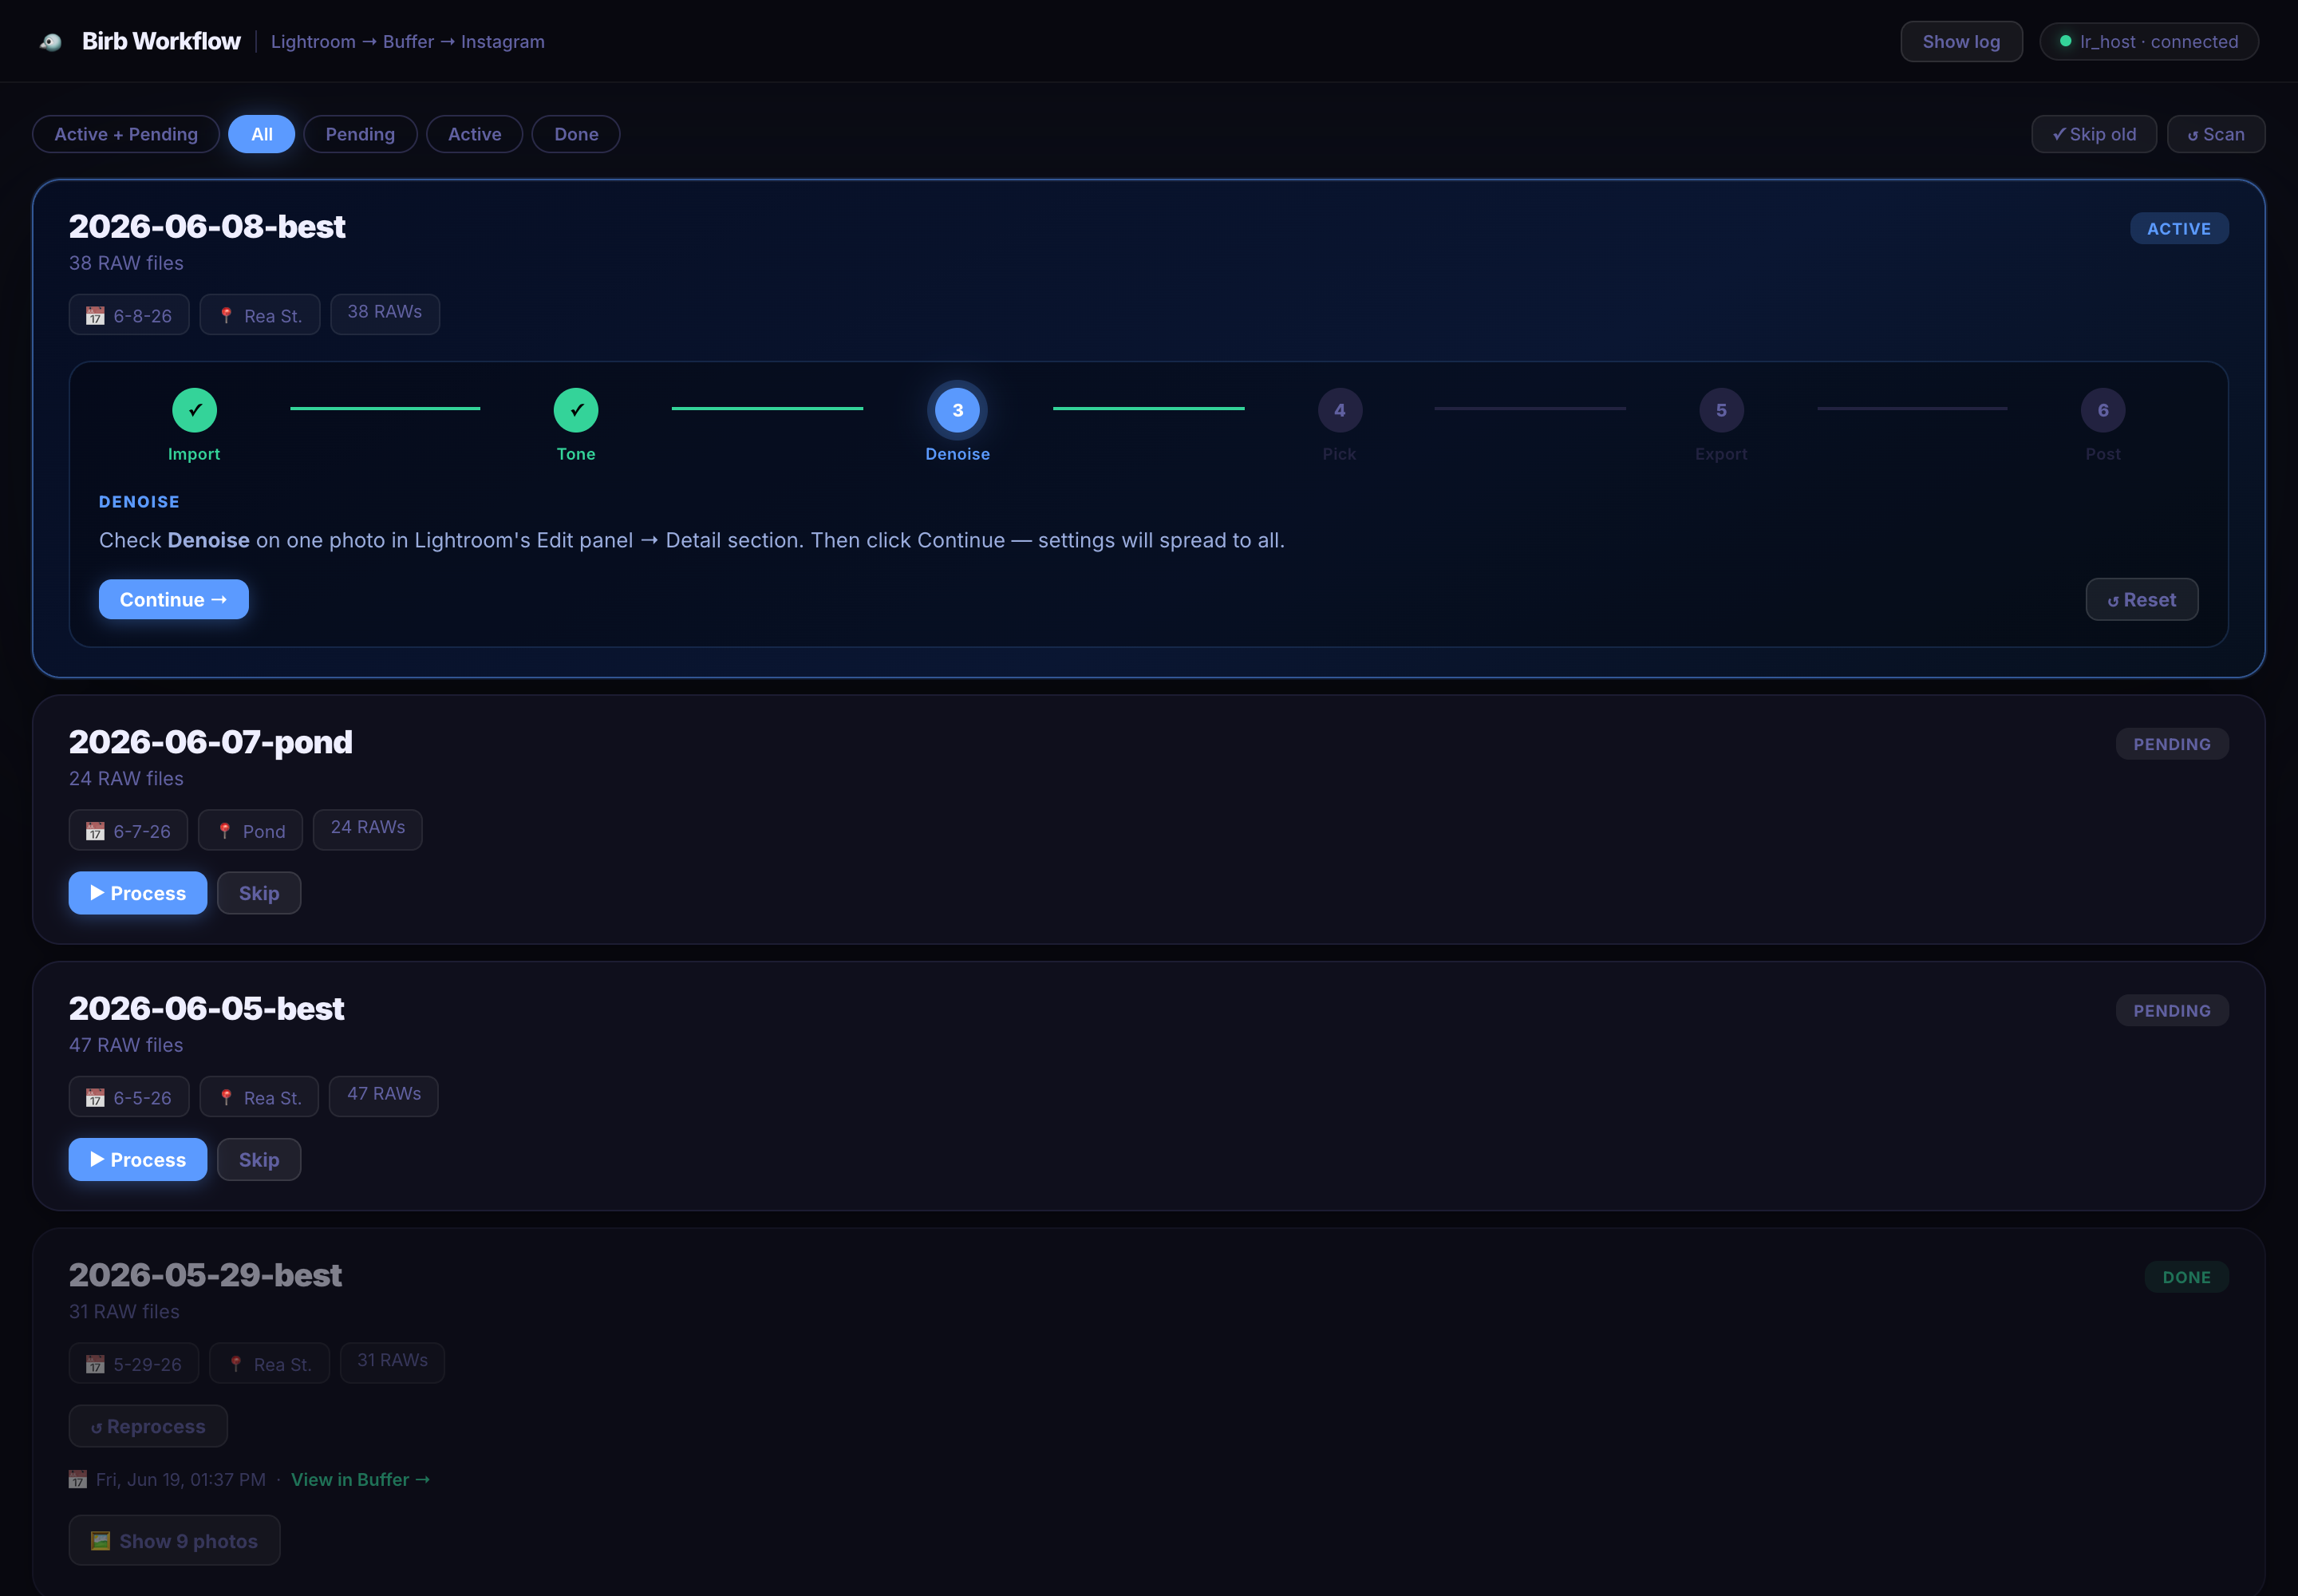
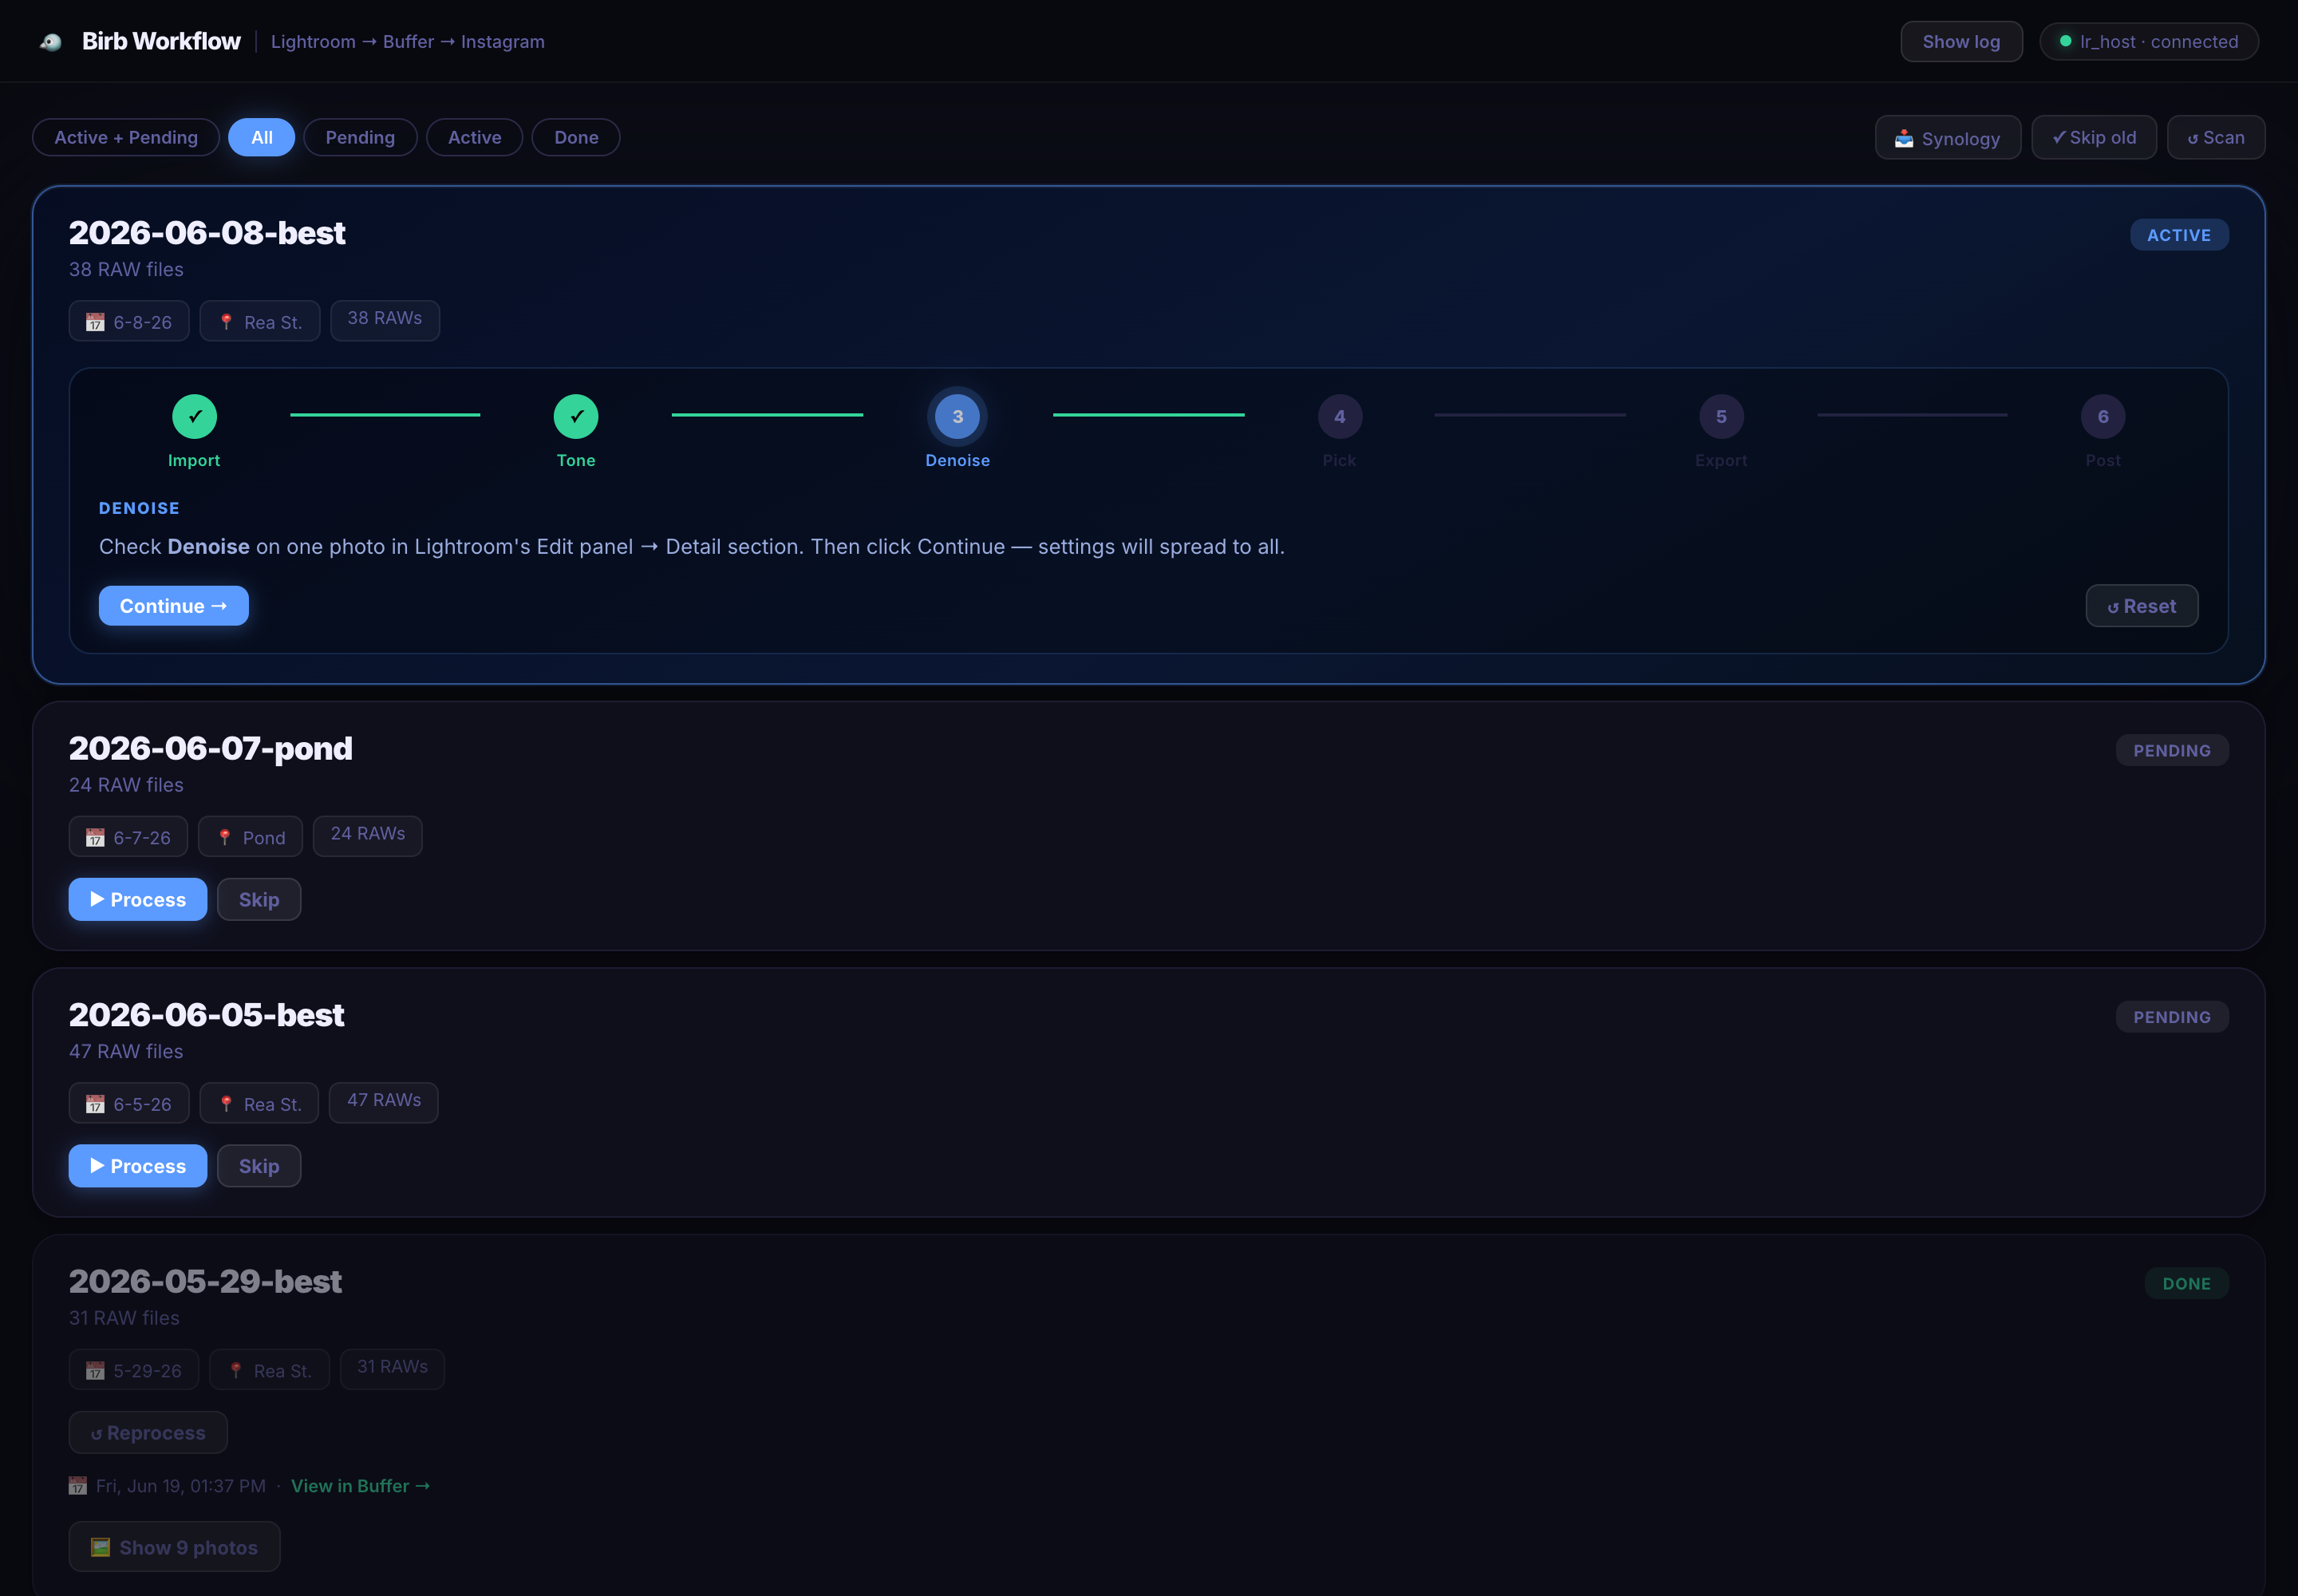
README: fix framing and screenshot species
- Reframe the "Why" from a marsh outing to what it actually is: bird shots
  grabbed on neighborhood dog-walks with a one-year-old on my back.
- Re-render screenshots with correct species — the post photos are owls
  ("Barred Owl"), not the placeholder egrets.

diff --git a/README.md b/README.md
@@ -10,7 +10,7 @@ Drop a folder of RAWs in `~/Downloads`, and Birb Workflow walks it through impor
 
 ## Why
 
-A good morning at the marsh produces a few hundred RAWs and a dozen keepers across several species. Getting those onto Instagram is a lot of repetitive Lightroom clicking, manual resizing, caption typing, and queue juggling — especially when one batch needs to become several posts (Instagram caps carousels at 10 images).
+These shots happen on neighborhood walks — dog on the leash, one-year-old riding on my back, camera over the shoulder. You get home with a few hundred RAWs and a handful of keepers, and the tedious part is everything *after* the shutter: repetitive Lightroom clicking, manual resizing, caption typing, and Buffer queue juggling — especially when a good walk turns into several posts (Instagram caps carousels at 10 images).
 
 Birb Workflow automates the mechanical parts and keeps the judgment calls (which shots, which species, how to group) one drag away.
 
@@ -160,4 +160,4 @@ Lightroom Classic                  import · tone · denoise · export
 
 ---
 
-*Personal project — built for one photographer’s marsh habit. 🪶*
+*Personal project — built around neighborhood dog-walks with a toddler on board and a camera over the shoulder. 🪶*